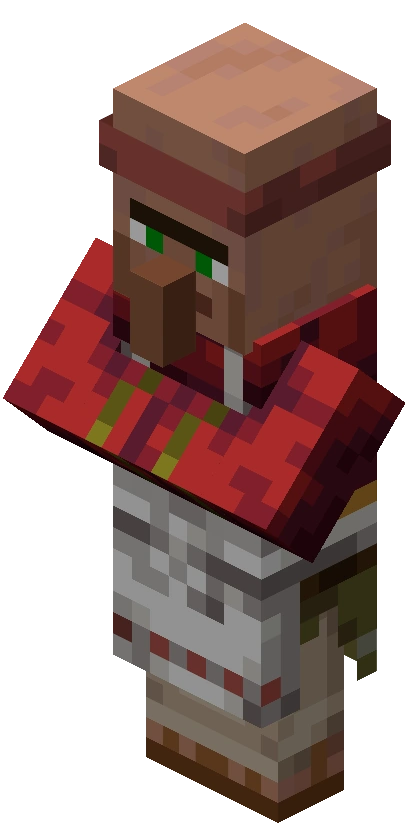
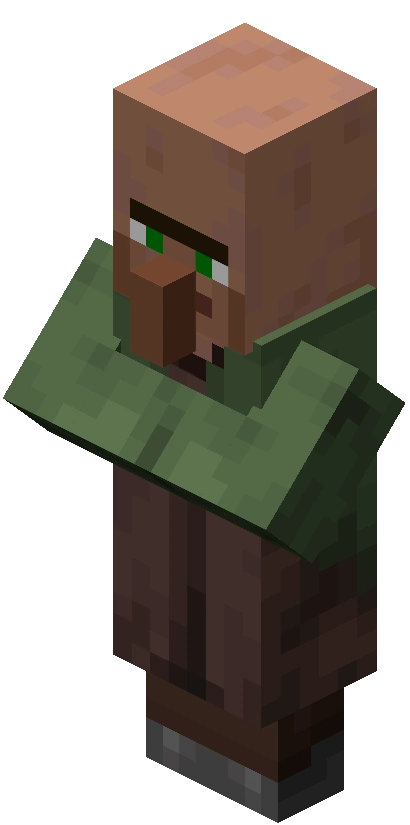
добавлены вотки жителей + по умолчанию отображение

diff --git a/src/modules/pages/texture-pack/TexturePack.js b/src/modules/pages/texture-pack/TexturePack.js
@@ -1,4 +1,4 @@
-import React, {useEffect, useState} from "react";
+import React, {useEffect, useState, PureComponent} from "react";
 import AOS from "aos";
 import {Link} from 'react-router-dom';
 import {LazyLoadImage} from 'react-lazy-load-image-component';
@@ -26,12 +26,13 @@ const TexturePack = () => {
         <h3 className="texture-pack-title-h3 font-custom-2">Официальный GMGame текстур пак</h3>
         <div className="texture-info">
           <h4 className="info-h4"> Для использования набора ресурсов необходимо установить модификацию Optifine или
-            Sodium с дополнениями. Без модов он работать не будет. <Link to={'/mods'} className="mods-link-page">Моды &#129133;</Link></h4>
-          <h4 className="info-h4">По вопросам обращаться к
-            игрокам: <span>Каким игрокам???</span></h4>
+            Sodium с дополнениями. Без модов он работать не будет. <Link to={'/mods'} className="mods-link-page">Моды &#129133;</Link>
+          </h4>
+          <h4 className="info-h4">По вопросам обращаться к игрокам: <span>Каким игрокам???</span></h4>
         </div>
         <div className="download-box">
-          <a href="./texturePack" className="download-files" download="/static/download/Totem-Elytra-Body-1.19.zip"> Скачать текстур
+          <a href="./texturePack" className="download-files"
+             download="/static/download/Totem-Elytra-Body-1.19.zip"> Скачать текстур
             пак &#129133;</a>
         </div>
         <div className="box-warn">
@@ -52,7 +53,7 @@ const TexturePack = () => {
             <LazyLoadImage className="item-img" alt="none" effect="blur" src={`./site_assets/texture-pack/webp/${tab.img}`}/>
           </div>
           <div className="colum-card-item2">
-            <h3 className="item-title-name">Предмет: {tab.main} <span className="hover-effect">{tab.info_item}</span></h3>
+            <h3 className="item-title-name">Предмет: {tab.main} <span className="hover-effect">{tab.info_item}</span> </h3>
             <ul className="list-name">
               {tab.variability_name.map((list, i) => (
                 <li className="list-name-one">{list}</li>
@@ -61,6 +62,7 @@ const TexturePack = () => {
           </div>
         </div>
       ))}
+
     </div>
   );
 };

diff --git a/src/modules/pages/shopkeepers/Shopkeepers.js b/src/modules/pages/shopkeepers/Shopkeepers.js
@@ -40,8 +40,8 @@ const Shopkeepers = () => {
   const [infoShopCoordinatesZ, setInfoShopCoordinatesZ] = useState(" ");
   const [infoShopDiscordTag, setInfoShopDiscordTag] = useState(" ");
   const [infoShopRemaining, setInfoShopRemaining] = useState("Неизвесно");
-  const [infoProfession, setInfoProfession] = useState("nitwit");
-  const [infoVillagerType, setInfoVillagerType] = useState("plains");
+  const [infoProfession, setInfoProfession] = useState("villager_base");
+  const [infoVillagerType, setInfoVillagerType] = useState("savanna");
 
   const [selectedItem, setSelectedItem] = useState(null);
   const [queryData, setQueryData] = useState("");
